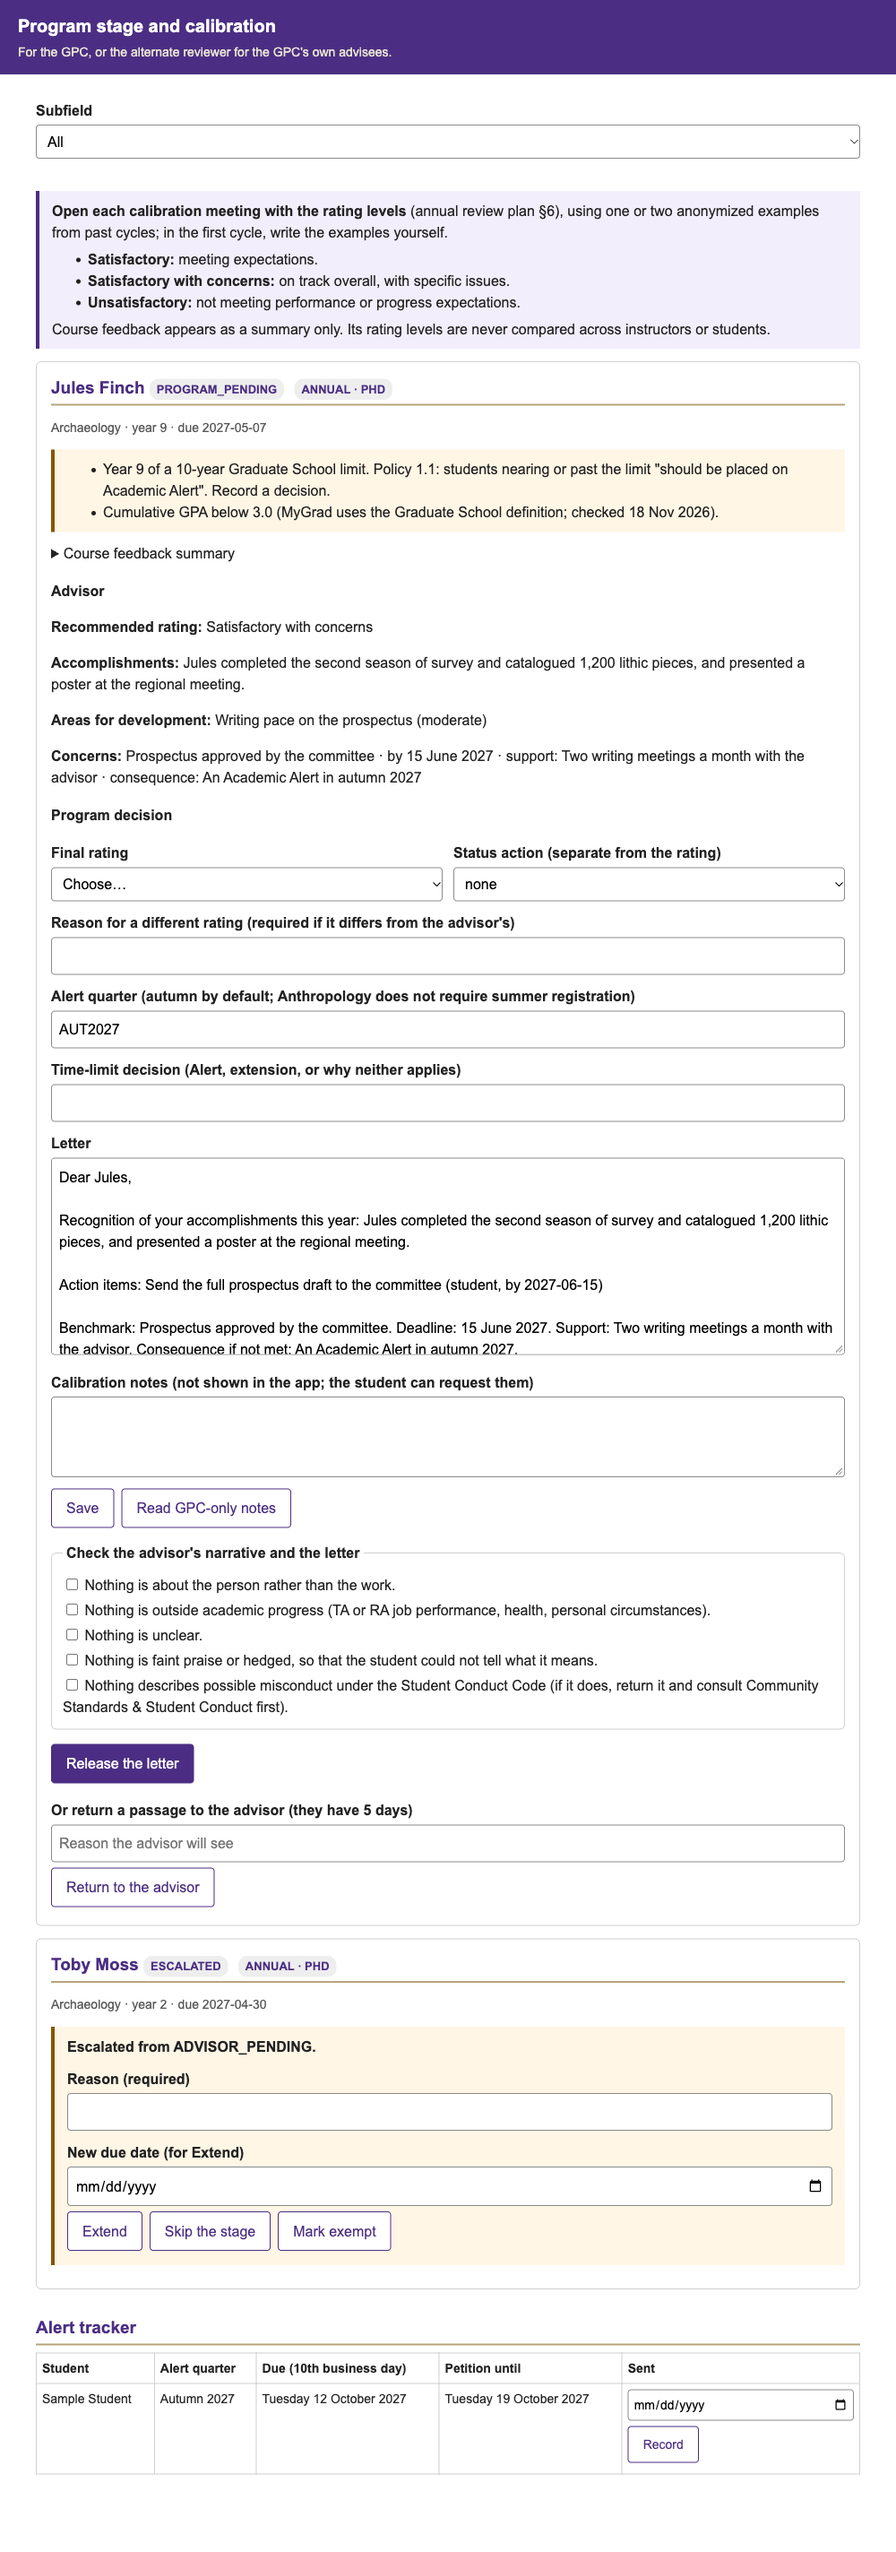
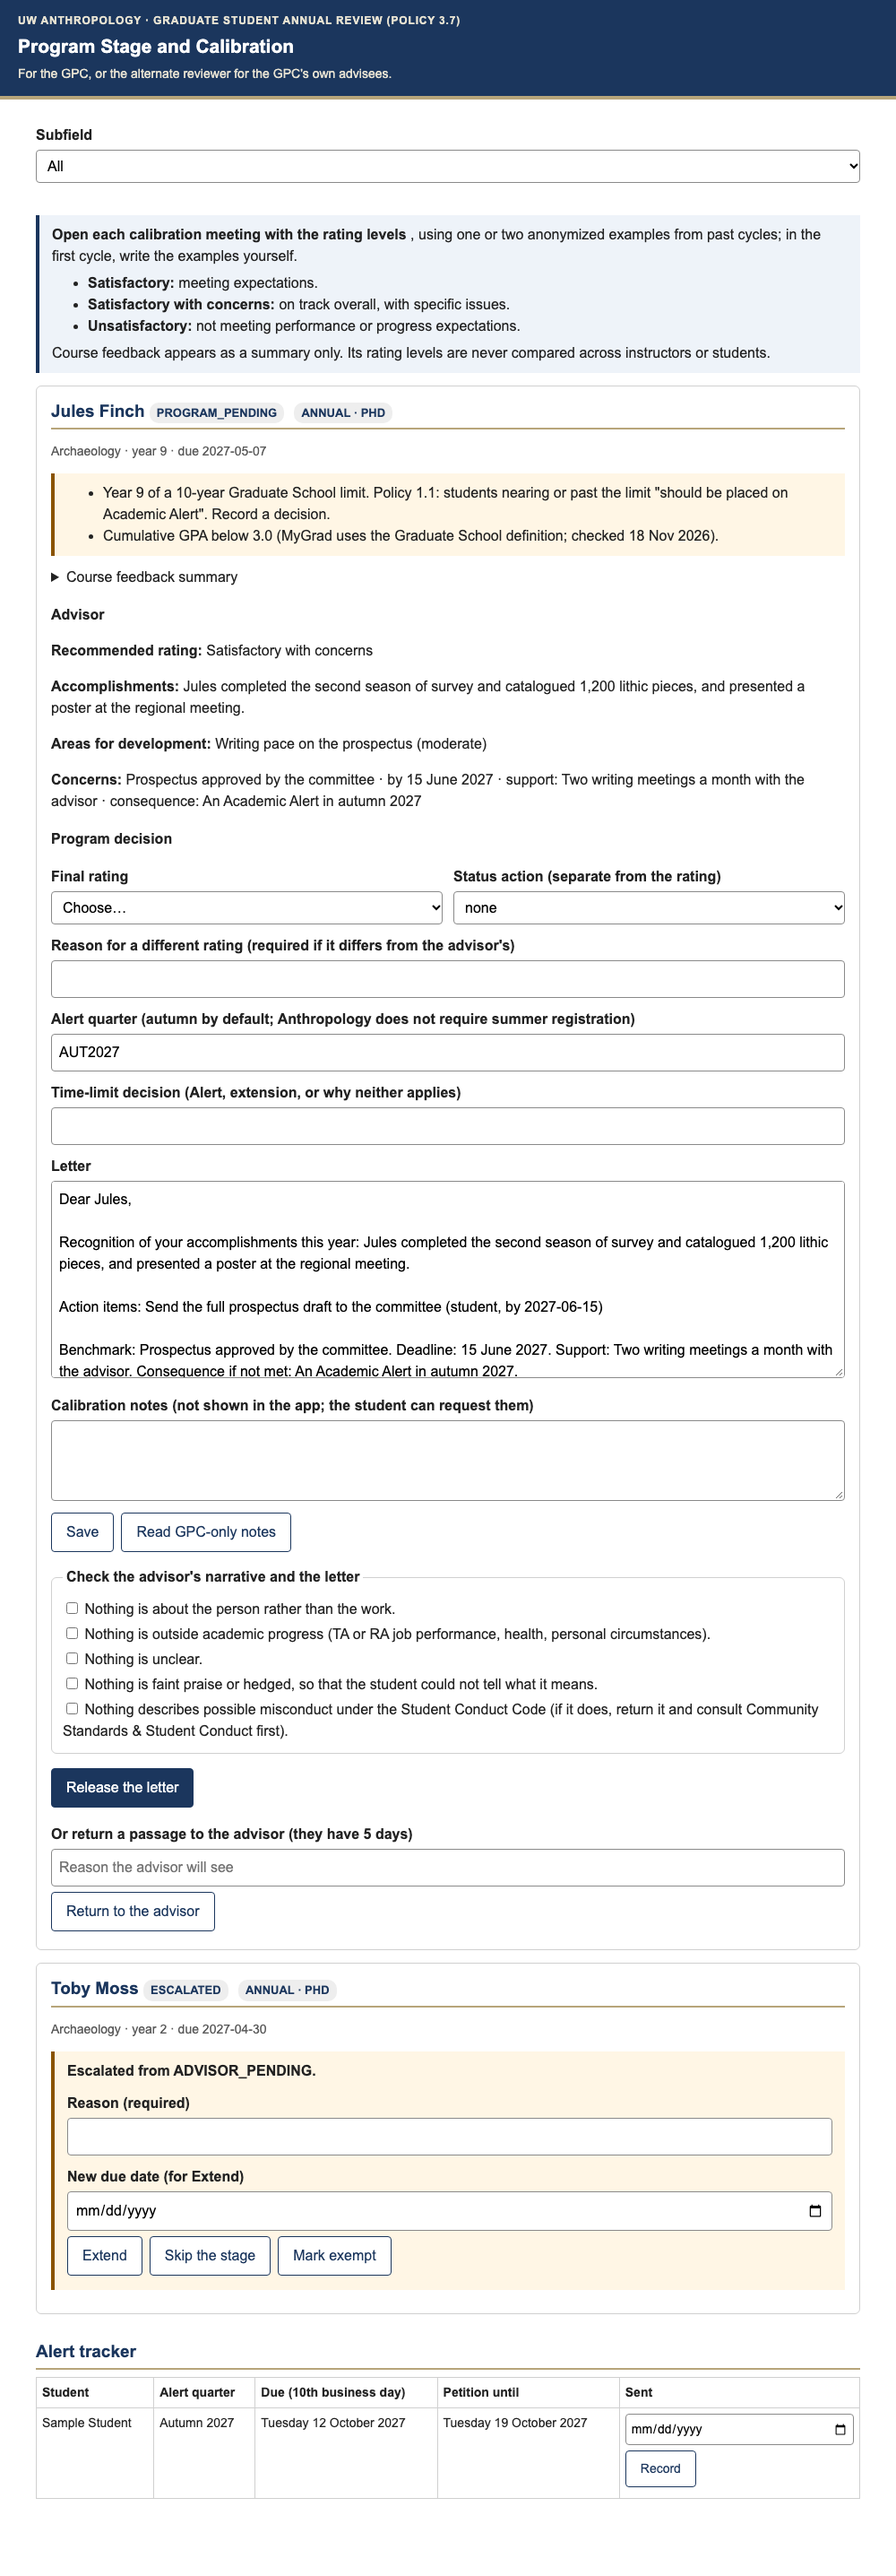
Update screenshots and README captions for disambiguated workflows

diff --git a/grad-progress-review-workflow/app/tests/screenshots/build.js b/grad-progress-review-workflow/app/tests/screenshots/build.js
@@ -93,7 +93,8 @@ const rosterData = {
     { requestId: 'REQ-3', offering: 'ANTH 466', instructors: 'Stone,Cal', emails: 'cal.stone.sample@uw.edu', status: 'NOT_MY_COURSE' }
   ],
   opensLong: run(`dateLong_(courseFeedbackWindow_('${Q}', CONFIG.CF_RELEASE_OFFSET_DAYS, CONFIG.CF_WINDOW_OVERRIDES).opens)`), launchOpen: false,
-  myGradUrl: 'https://webappssecure.grad.uw.edu/mgp-dept.stu.detail/home/studentlist?orgid=14', timeScheduleUrl: ''
+  myGradUrl: 'https://webappssecure.grad.uw.edu/mgp-dept.stu.detail/home/studentlist?orgid=14', timeScheduleUrl: '',
+  sheetLinks: { spreadsheet: '#sheet', students: '#students', instructors: '#instructors' }
 };
 /* The "Check before launch" list: what launchReviewData returns for two pages not yet sent. The email
    text comes from the real CF-1 template. */
@@ -184,19 +185,19 @@ function pick(c) { return { contact: c.contact, written: c.written, discussion: 
 /* ---------- Instructor page ---------- */
 const feedbackPage = {
   offering: 'ANTH 512', quarter: run(`quarterLabel_('${Q}')`), due: run(`dateLong_('${win.due}')`), closed: false, readOnlyLock: false, lockOwner: '',
-  levels: CF_LEVELS, signature: '', minutes: '', status: 'DRAFT',
+  levels: CF_LEVELS, signature: 'Bea Rowan', minutes: '5 to 15', status: 'DRAFT',
   students: [
-    { email: 'robin.park.sample@uw.edu', name: 'Robin Park', program: 'PhD', subfield: 'Sociocultural', year: run(`yearInProgram_('AUT2024', '${Q}')`), course: 'ANTH 512', isAdvisee: true,
+    { email: 'robin.park.sample@uw.edu', name: 'Robin Park', program: 'PhD', subfield: 'Sociocultural', year: run(`yearInProgram_('AUT2024', '${Q}')`), candidacy: 'PhD candidate since June 2026', course: 'ANTH 512', isAdvisee: true,
       contact: 'enough', ...pick(parkComments[0]), followup: false, followupNote: '', status: 'DRAFT', returnedReason: '', editable: true },
-    { email: 'toby.moss.sample@uw.edu', name: 'Toby Moss', program: 'PhD', subfield: 'Archaeology', year: run(`yearInProgram_('AUT2025', '${Q}')`), course: 'ANTH 512', isAdvisee: false,
-      contact: '', written: '', discussion: '', literature: '', strength: '', nextStep: '', followup: false, followupNote: '', status: '', returnedReason: '', editable: true }
+    { email: 'toby.moss.sample@uw.edu', name: 'Toby Moss', program: 'PhD', subfield: 'Archaeology', year: run(`yearInProgram_('AUT2025', '${Q}')`), candidacy: 'pre-candidacy', course: 'ANTH 512', isAdvisee: false,
+      contact: 'not_enough', written: '', discussion: '', literature: '', strength: '', nextStep: '', followup: false, followupNote: '', status: 'DRAFT', returnedReason: '', editable: true }
   ]
 };
 
 /* ---------- Student's annual report ---------- */
 const cyc = run('annualCycleDates_(CONFIG.CYCLE_YEAR)');
 const reviewStudent = {
-  reviewId: 'REV-3', type: 'ANNUAL', program: 'PHD', cycle: run('CONFIG.CYCLE_YEAR'), stage: 'student', status: 'STUDENT_PENDING', due: run(`dateLong_('${cyc.studentDue}')`),
+  reviewId: 'REV-3', type: 'ANNUAL', program: 'PHD', cycle: run('CONFIG.CYCLE_YEAR'), cycleLabel: String(run('CONFIG.CYCLE_YEAR')), stage: 'student', status: 'STUDENT_PENDING', due: run(`dateLong_('${cyc.studentDue}')`),
   studentName: 'Robin Park', coAdvised: false, returned: false, levels: CF_LEVELS, ratings: run('REVIEW_RATINGS_'), flags: [],
   draft: {
     research: 'Finished the first round of interviews with home-care workers (18 of a planned 30) and coded half of them. Drafted the methods section of the prospectus.',

diff --git a/grad-progress-review-workflow/README.md b/grad-progress-review-workflow/README.md
@@ -355,31 +355,37 @@ The design follows Graduate School Policy 3.7, the [Provost and Graduate School 
 
 ## Screenshots
 
-The screenshots below predate the November 22, 2026 visual themes (forest green for course feedback, deep navy for annual reviews, deep teal for check-ins) and two-column scope boxes. The first three are from the deployed app, with invented sample data (three students and sample instructors) uploaded through the Roster page's CSV option.
+All eight screenshots below were rendered on November 22, 2026 from the app's real `.html` files with invented sample data via [`app/tests/screenshots/build.js`](app/tests/screenshots/build.js). Every person, course assignment, and email address shown is invented. The color themes and two-column scope boxes distinguish the three graduate-review workflows from paid TA/ASE employment evaluations (UW purple): forest green for Course Feedback, deep navy for Annual Reviews, and deep teal for Progress Check-Ins.
 
-The Roster page after the CSV uploads and Preview.
+The Roster page after CSV upload and Preview, showing the join table and the sample CF-1 instructor email (`From: UW Anthropology: Grad Student Course Feedback`, subject prefix `[Grad Student Course Feedback]`).
 
-![Live Roster page with a join preview](screenshots/live-roster-preview.png)
+![Roster page with a join preview and sample email](screenshots/live-roster-preview.png)
 
-The instructor's page, opened from the CF-1 email link, with the answers submitted.
+The instructor's Course Feedback page, opened from the CF-1 email link, with the forest-green header, two-column scope box, enrollment pills, candidacy status, and filled responses.
 
-![Live instructor course feedback page](screenshots/live-feedback-form.png)
+![Instructor course feedback page](screenshots/live-feedback-form.png)
 
-Review and Release (GPC), after the instructor submitted.
+Review and Release (GPC), after the instructor submitted course feedback.
 
-![Live review and release page](screenshots/live-review-release.png)
+![Review and release page](screenshots/live-review-release.png)
 
-The next three need a launched annual cycle or a student's own account, so they are built from the app's real pages with sample data by [`app/tests/screenshots/build.js`](app/tests/screenshots/build.js). Every person and email address shown is invented.
-
-The student's annual report, top of the page: the MyGrad prefill note and the released Course Feedback Record above the form.
+The student's Annual Review report (top of the page): the deep-navy header, scope box, MyGrad prefill note, and released Course Feedback Record above the form.
 
 ![Student annual report](screenshots/annual-report.png)
 
-Program stage (GPC): a review with the time-limit and GPA flags, the starting letter and the narrative check; an escalated review; and the Alert tracker.
+The advisor's Annual Review page (top of the page): the deep-navy header, advisor scope box, student report, and Course Feedback Record.
+
+![Advisor annual review page](screenshots/advisor-annual.png)
+
+The advisor's MA Quarterly Check-In page: the deep-teal header, check-in scope box, student report, and advisor check-in form.
+
+![Advisor MA quarterly check-in page](screenshots/advisor-checkin.png)
+
+Program stage (GPC): the calibration note, a review with the time-limit and GPA flags, the starting letter and narrative check, an escalated review, and the Alert tracker.
 
 ![Program stage page](screenshots/program.png)
 
-The student's course feedback for one quarter.
+The student's released Course Feedback for one quarter.
 
 ![Student course feedback page](screenshots/student-feedback.png)
 

diff --git a/ta-evaluation-workflow/README.md b/ta-evaluation-workflow/README.md
@@ -351,9 +351,9 @@ A submission then has to pass:
 
 Single dynamic page (not a separate template per stage) that renders the active step. Styled to the UW brand (purple `#4B2E83`, gold `#B7A57A`, Inter font) and built for WCAG 2.1 AA: skip link, semantic landmarks, ARIA progress bar, visible keyboard focus, `role="alert"` live regions, print stylesheet, mobile-responsive layout, character counters, and accessible custom radio buttons. Every step opens with a purple `TA / ASE Employment Evaluation (Personnel File)` header, a permanent two-column scope box distinguishing paid TA evaluations from Graduate Student Course Feedback (forest green) and Graduate Student Annual Reviews / Check-Ins (deep navy or teal), and explicit submit buttons (`Submit TA Evaluation`, `Submit TA Self-Evaluation`, `Sign & Finalize TA Evaluation`). The web forms meet current accessibility best practices: every input is labeled, required fields are announced and validated with clear error messages, radio groups use `<fieldset>`/`<legend>`, and all controls have touch targets of at least 44 px. The professor's form auto-saves to the server (1 s debounce). Nothing is kept in the browser; a draft left there by an older version is deleted when the form opens.
 
-The screenshots below come from one test evaluation run through all three steps of the deployed web app on November 16, 2026 (before the scope box and updated button labels were added on November 22, 2026). The names and comments are made up: the instructor is "Dr. Smith" and the TA is "Alex Johnson". Both roles use the coordinator's own UW account (`bmarwick@uw.edu`), because each form opens only for the account named in the row, so one person can run the whole test.
+The four web form screenshots below were regenerated on November 22, 2026 by rendering the current `Index.html` template with invented sample data ("Dr. Ada Quill" and "Alex Johnson", `ANTH 203`, `Autumn 2026`). They show the purple `TA / ASE Employment Evaluation (Personnel File)` header, the permanent two-column scope box, the time sheet upload and download controls, and the explicit submit button labels.
 
-The TA response and sign-off screenshots were retaken on November 17, 2026, when the time sheet upload was added. They show the same test evaluation, rendered from the deployed version of `Index.html` with a sample time sheet file chosen. The PDF screenshot predates the time sheet and does not show the PDF's "Time Sheet" section.
+The PDF screenshot (`5-signed-pdf.png`) comes from the November 16, 2026 live test run ("Dr. Smith" and "Alex Johnson") and predates the PDF's "Time Sheet" section.
 
 ### Professor Evaluation Form (`prof_eval`)
 
